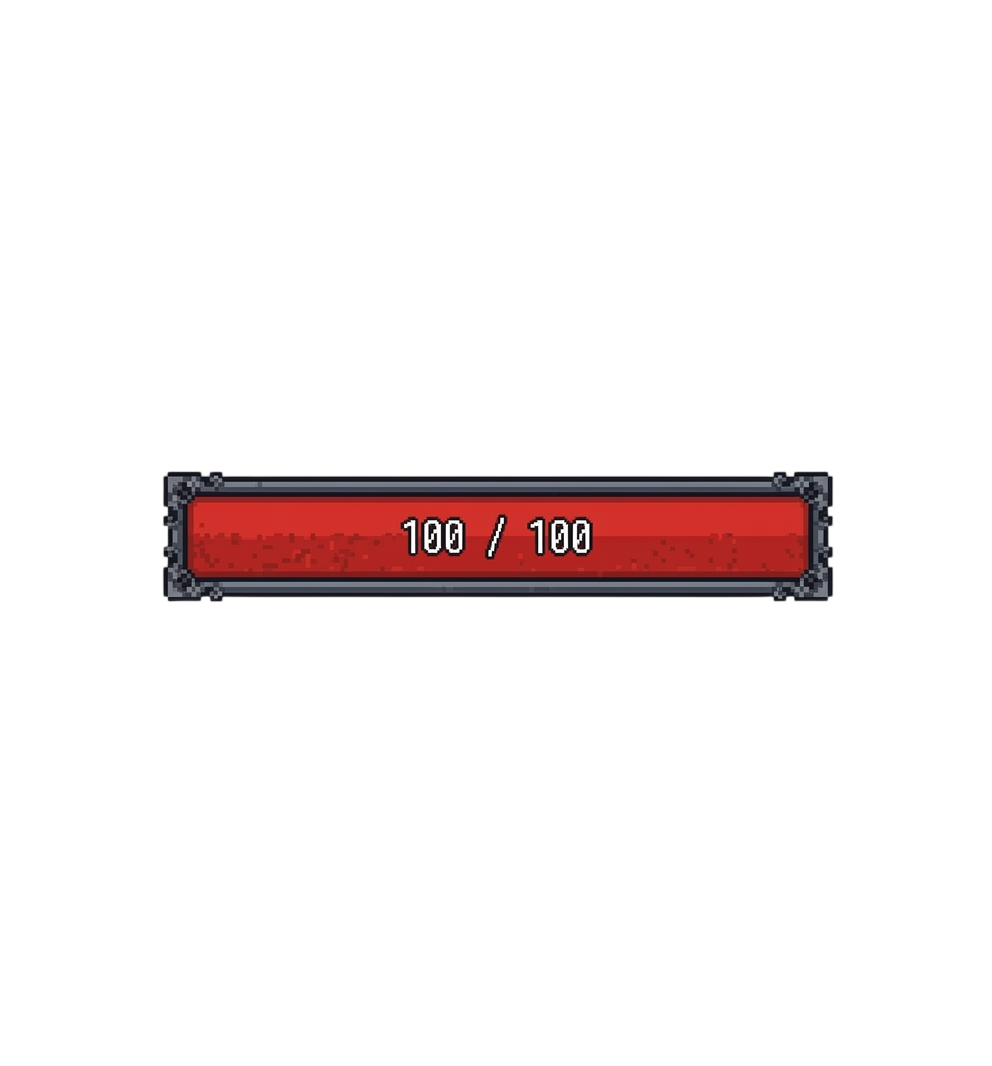
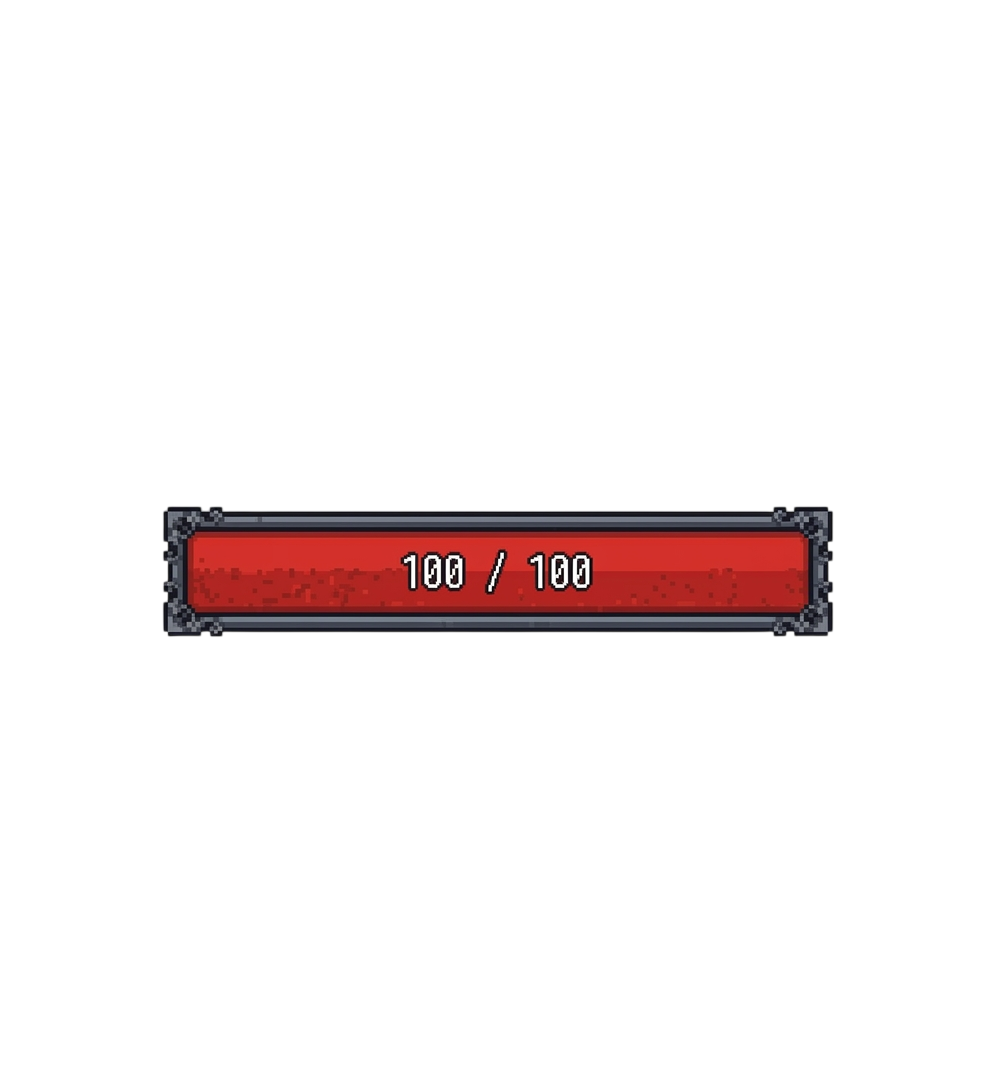
healthbar

Changed region(s): [[0.1562, 0.4334, 0.8438, 0.6191]]

diff --git a/src/ui/Healthbar.java b/src/ui/Healthbar.java
@@ -1,4 +1,19 @@
 package ui;
 
-public class Healthbar extends UI{
+import greenfoot.GreenfootImage;
+
+public class Healthbar extends UI {
+
+    private static final int SIZE_WITH = 600;
+    private static final int SIZE_HEIGHT = 600;
+    private static GreenfootImage Healthbar_IMG;
+
+    {
+        Healthbar_IMG = new GreenfootImage("Healthbar.png");
+        Healthbar_IMG.scale(SIZE_WITH, SIZE_HEIGHT);
+    }
+
+    public Healthbar() {setImage(new GreenfootImage(Healthbar_IMG));
+    }
+
 }

diff --git a/src/world/DungeonLevel.java b/src/world/DungeonLevel.java
@@ -5,6 +5,7 @@ import core.GameStarter;
 import entities.Player;
 import greenfoot.GreenfootImage;
 import greenfoot.World;
+import ui.Healthbar;
 
 import java.util.ArrayList;
 import java.util.Comparator;
@@ -55,6 +56,8 @@ public class DungeonLevel extends World {
 
         spawnCorridor();
         spawnRooms();
+
+        addObject(new Healthbar(), 6,26);
     }
 
     private static int calcHeight(long rn) {return calcWidth(rn)+3;}
